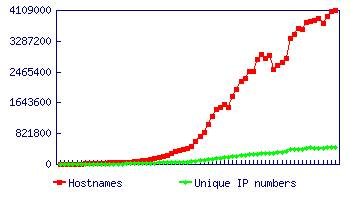
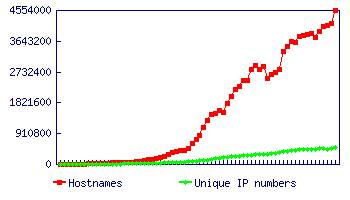
stats update for Feb, Mar 2003
git-svn-id: https://svn.apache.org/repos/asf/perl/modperl/docs/trunk@67094 13f79535-47bb-0310-9956-ffa450edef68

diff --git a/src/outstanding/stats/netcraft.html b/src/outstanding/stats/netcraft.html
@@ -24,13 +24,15 @@ survey.
 </p>
 
 <!-- monthly reports can be retrieved from
-http://www.netcraft.com/survey/Reports/0212/mod_perl.txt, adjust the
+http://www.netcraft.com/survey/Reports/0304/mod_perl.txt, adjust the
 year/month if needed. used to be
 http://www.netcraft.com/survey/Reports/200206/mod_perl.txt till July
 2002 -->
 
 <table cellpadding="3" border="1" cellspacing="0">
 <tr><th>Survey</th><th>Hostnames</th><th>Unique IP Addresses</th></tr>
+<tr><td> March 2003     </td><td>4553109</td><td>491413</td></tr>
+<tr><td> February 2003  </td><td>4162825</td><td>462416</td></tr>
 <tr><td> January 2003   </td><td>4108930</td><td>458057</td></tr>
 <tr><td> December 2002  </td><td>4082690</td><td>461309</td></tr>
 <tr><td> November 2002  </td><td>3943776</td><td>462402</td></tr>

diff --git a/src/outstanding/stats/securityspace.html b/src/outstanding/stats/securityspace.html
@@ -7,12 +7,12 @@
 <body bgcolor="#ffffff">
 
 <p> SecuritySpace provides an <a
-href="http://www.securityspace.com/s_survey/data/man.200301/apachemods.html?mod=cGVybA==">Apache
+href="http://www.securityspace.com/s_survey/data/man.200303/apachemods.html?mod=cGVybA==">Apache
 Module Report on mod_perl</a> comprising statistics and a graph based
 on the data collected by <a
 href="http://www.securityspace.com/">www.securityspace.com</a>. They
 also feature <a
-href="http://www.securityspace.com/s_survey/data/man.200301/apachemods.html">a
+href="http://www.securityspace.com/s_survey/data/man.200303/apachemods.html">a
 comparison</a> between all the Apache modules they survey.  </p>
 
 </body>
